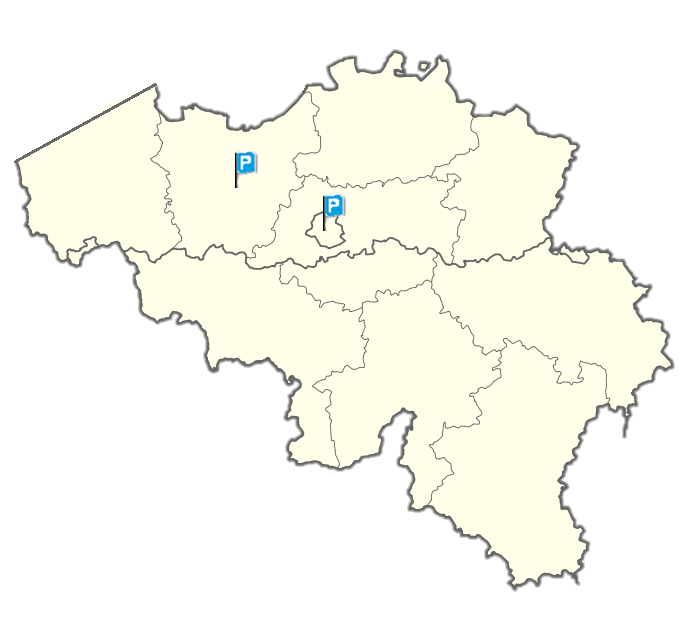
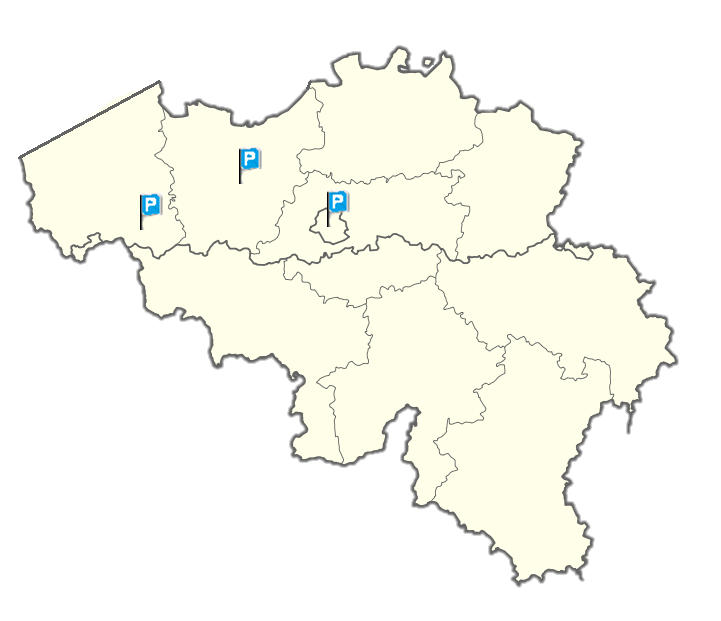
Kortrijk aangepast op kaart & overzicht homepagina.

Changed region(s): [[0.0, 0.0612, 0.9767, 0.9485], [0.1526, 0.153, 0.1831, 0.1836]]

diff --git a/resources/views/home.blade.php b/resources/views/home.blade.php
@@ -31,8 +31,7 @@
                     <h2>Steden</h2><br/>
                 </div>
             </div>
-            <div class="col-sm-2 portfolio-item">
-            </div>
+
 
             <div class="row" text-align="center">
                 <div class="col-md-4 portfolio-item">
@@ -55,16 +54,16 @@
                         <img src="{{ asset('img/brussel.jpg') }}" alt="">
                     </a>
                 </div>
-                {{--<div class="col-sm-4 portfolio-item">--}}
-                    {{--<a href="/stad/kortrijk" class="portfolio-link" data-toggle="modal">--}}
-                        {{--<div class="caption" >--}}
-                            {{--<div class="caption-content">--}}
-                                {{--<i class="fa fa-3x">Kortrijk</i>--}}
-                            {{--</div>--}}
-                        {{--</div>--}}
-                        {{--<img src="https://upload.wikimedia.org/wikipedia/commons/6/61/KortrijkBroeltorens.JPG" alt="">--}}
-                    {{--</a>--}}
-                {{--</div>--}}
+                <div class="col-sm-4 portfolio-item">
+                    <a href="/stad/kortrijk" class="portfolio-link" data-toggle="modal">
+                        <div class="caption">
+                            <div class="caption-content">
+                                <i class="fa fa-3x">Kortrijk</i>
+                            </div>
+                        </div>
+                        <img src="https://upload.wikimedia.org/wikipedia/commons/6/61/KortrijkBroeltorens.JPG" alt="">
+                    </a>
+                </div>
             </div>
         </div>
     </section>
